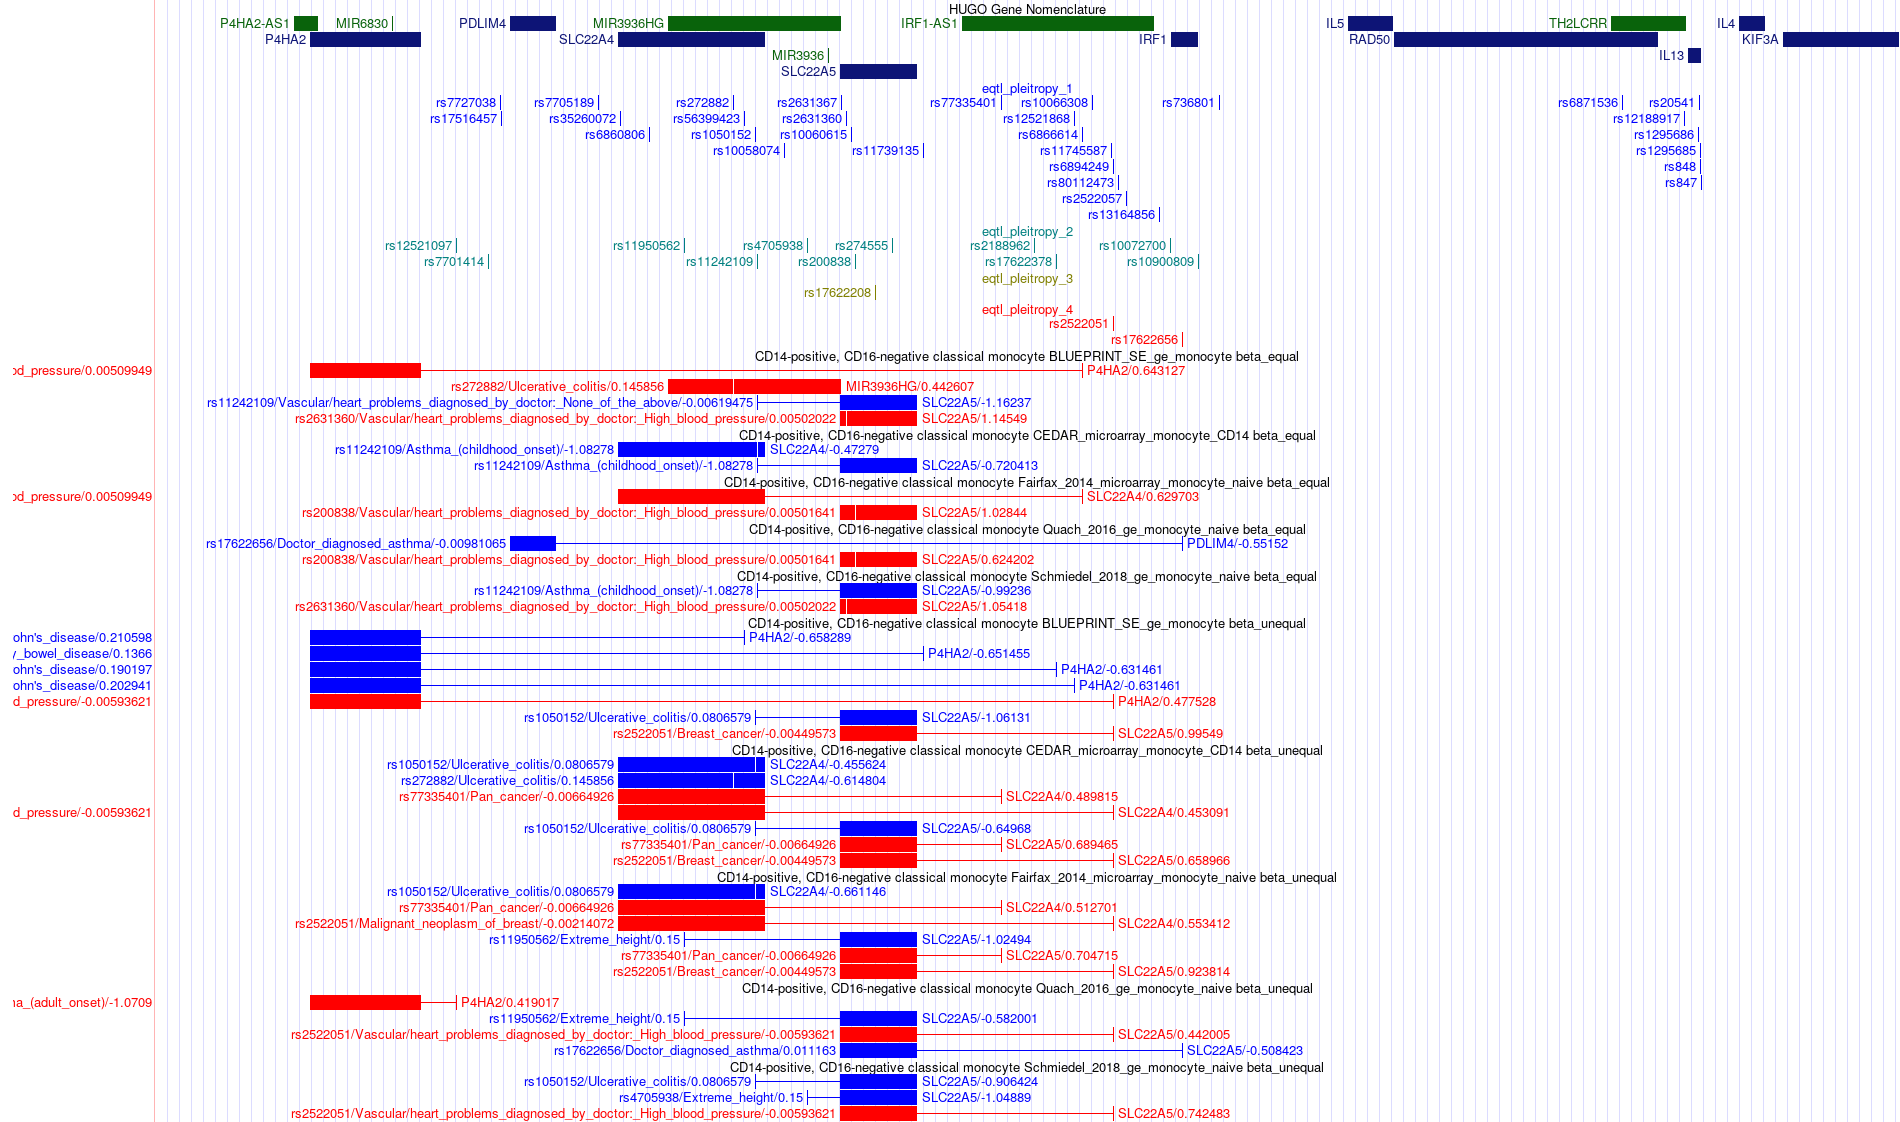
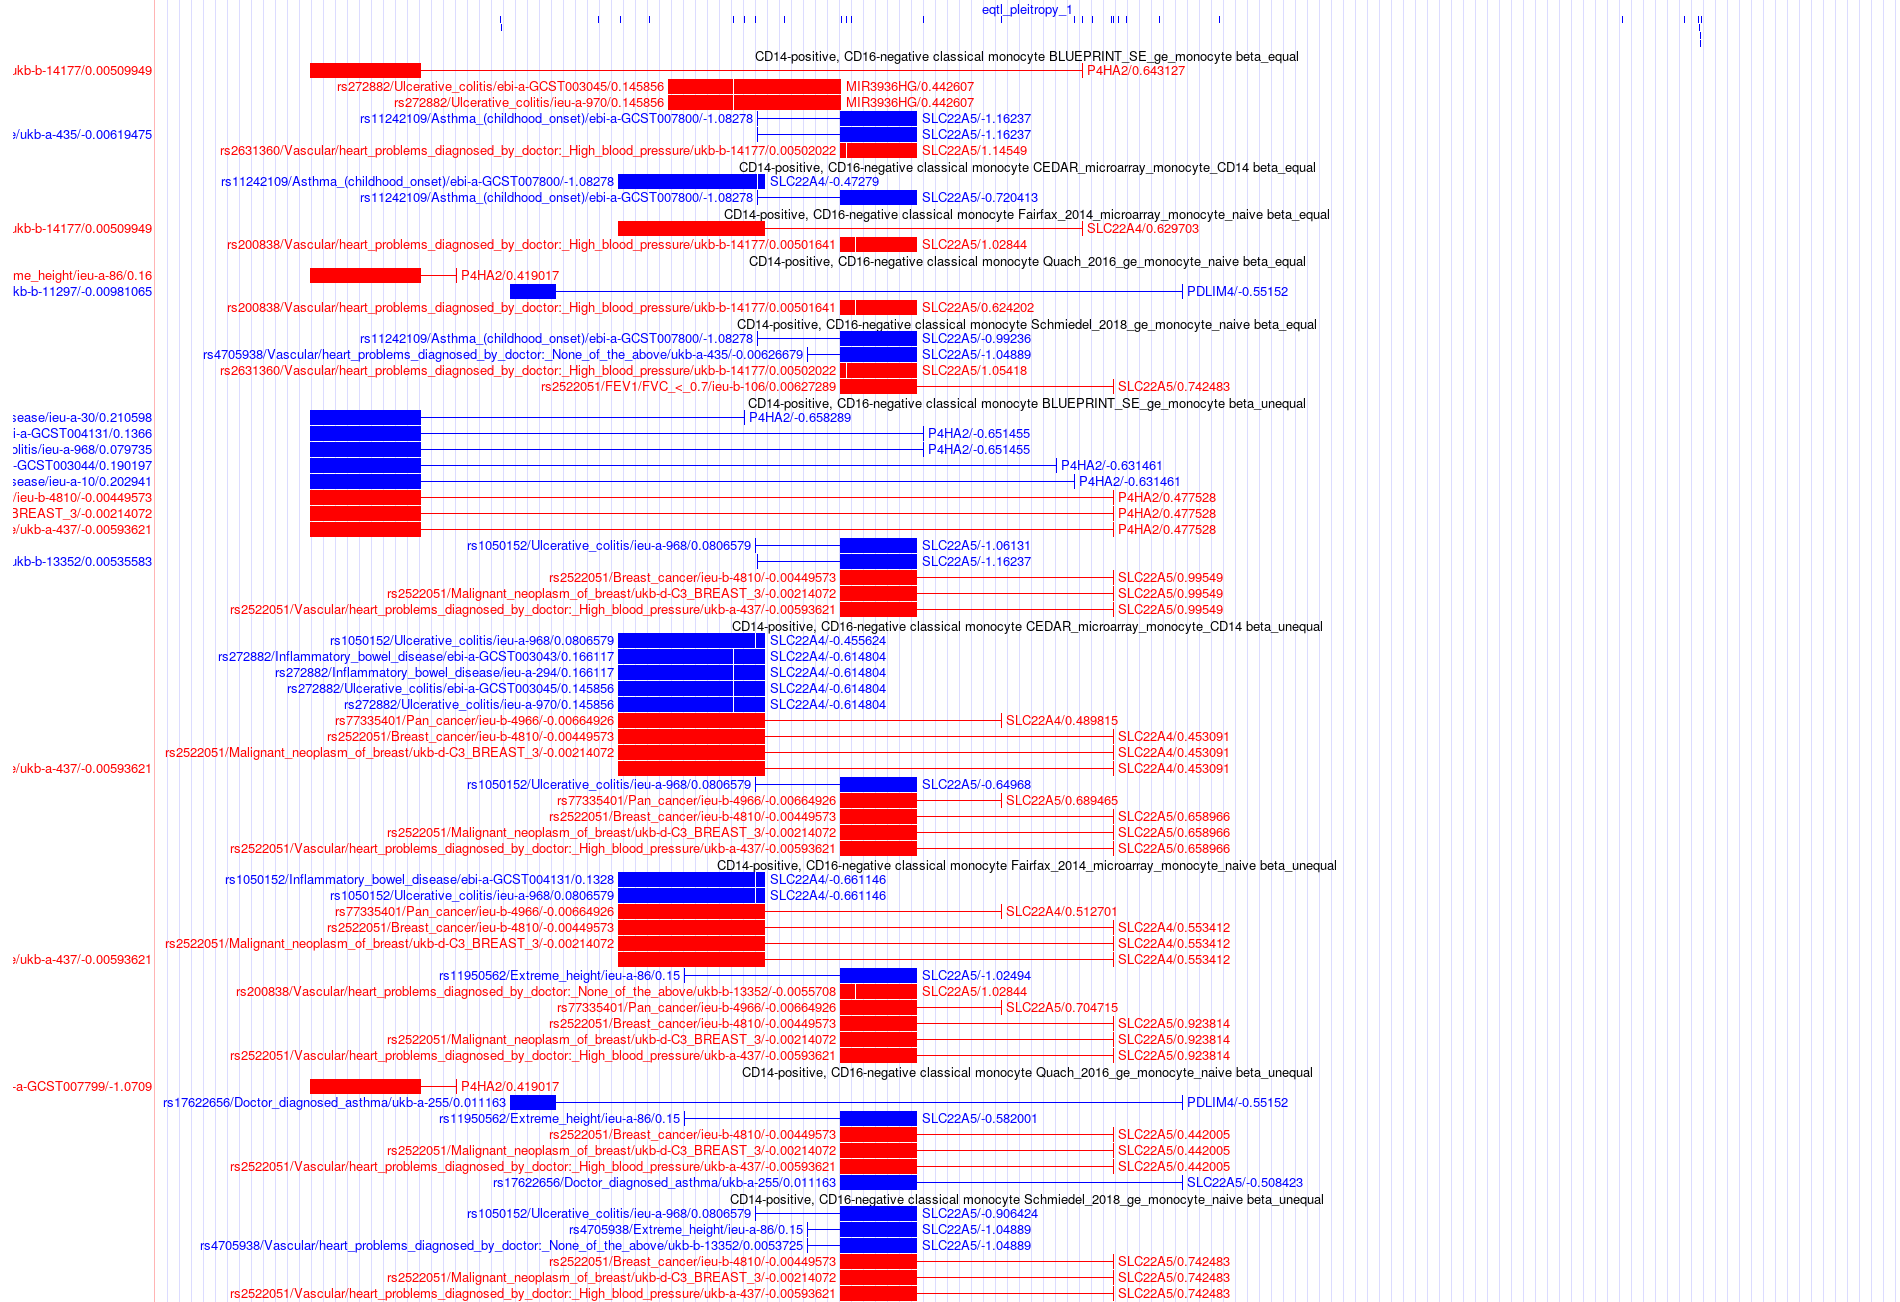
MS

diff --git a/ms/ms08_figures.tex b/ms/ms08_figures.tex
@@ -1,6 +1,20 @@
 %%%%%%%%%%%%%%%%%%%%%%%%%%%%%%%%%%%%%%%%%%%%%%%%%%%%%%%%%%%%%%%%%%%%%%%%%%%%%%%%
 %
 % Fig 1: Histogram of percentage of explained of GWAS
+%
+%%%%%%%%%%%%%%%%%%%%%%%%%%%%%%%%%%%%%%%%%%%%%%%%%%%%%%%%%%%%%%%%%%%%%%%%%%%%%%%%
+
+\begin{figure}[!ht]
+    \centering
+
+        \includegraphics[width=0.5\textwidth]{\floatRelativePath/plthst_perc_tophits_eqtl.py/hist_perc_tophits_eqtl_excl_mhc.png}
+
+    \caption{}
+%
+\end{figure}
+
+%%%%%%%%%%%%%%%%%%%%%%%%%%%%%%%%%%%%%%%%%%%%%%%%%%%%%%%%%%%%%%%%%%%%%%%%%%%%%%%%
+%
 % Fig 2: ucsc screenshots
 %
 %%%%%%%%%%%%%%%%%%%%%%%%%%%%%%%%%%%%%%%%%%%%%%%%%%%%%%%%%%%%%%%%%%%%%%%%%%%%%%%%
@@ -8,26 +22,20 @@
 \begin{figure}[!ht]
     \centering
 
-    \begin{subfigure}[]{0.32\textwidth}
-        \textbf{a}
-        \\
-        \includegraphics[width=\textwidth]{\floatRelativePath/plthst_perc_tophits_eqtl.py/hist_perc_tophits_eqtl_excl_mhc.png}
-    \end{subfigure}
-
     \begin{subfigure}[]{0.99\textwidth}
-        \textbf{b}
+        \textbf{a}
         \\
         \includegraphics[width=\textwidth]{fig/ucsc_gwas2eqtl_il4_bcell.png}
     \end{subfigure}
 
     \begin{subfigure}[]{0.99\textwidth}
-        \textbf{c}
+        \textbf{b}
         \\
         \includegraphics[width=\textwidth]{fig/ucsc_gwas2eqtl_il4_monocyte.png}
     \end{subfigure}
 
     \begin{subfigure}[]{0.99\textwidth}
-        \textbf{d}
+        \textbf{c}
         \\
         \includegraphics[width=\textwidth]{fig/ucsc_gwas2eqtl_il4_frontalcortex.png}
     \end{subfigure}

diff --git a/ms/ms09_suppl.tex b/ms/ms09_suppl.tex
@@ -136,8 +136,22 @@
         \includegraphics[width=\textwidth]{\floatRelativePathSeventyFive/plthst_perc_tophits_eqtl.py/hist_perc_tophits_eqtl_excl_mhc.png}
     \end{subfigure}
 
-\caption{}
+    \caption{}
 
+\end{figure}
+
+
+%%%%%%%%%%%%%%%%%%%%%%%%%%%%%%%%%%%%%%%%%%%%%%%%%%%%%%%%%%%%%%%%%%%%%%%%%%%%%%%%
+%
+% Supp fig 1: ucsc help
+%
+%%%%%%%%%%%%%%%%%%%%%%%%%%%%%%%%%%%%%%%%%%%%%%%%%%%%%%%%%%%%%%%%%%%%%%%%%%%%%%%%
+
+\begin{figure}[!tbp]
+    \centering
+    \includegraphics[width=\textwidth]{/home/gonzalez/Repositories/gwas2eqtl_pleiotropy/ms/fig/ucsc_help}
+    \caption{}
+    \label{fig:}
 \end{figure}
 
 %%%%%%%%%%%%%%%%%%%%%%%%%%%%%%%%%%%%%%%%%%%%%%%%%%%%%%%%%%%%%%%%%%%%%%%%%%%%%%%%
@@ -179,6 +193,6 @@
         \includegraphics[width=\textwidth]{\floatRelativePath/pltbar_x_per_gwas_cat_y_allele_freq.py/sas_af.png}
     \end{subfigure}
 
-\caption{}
+    \caption{}
 
 \end{figure}
